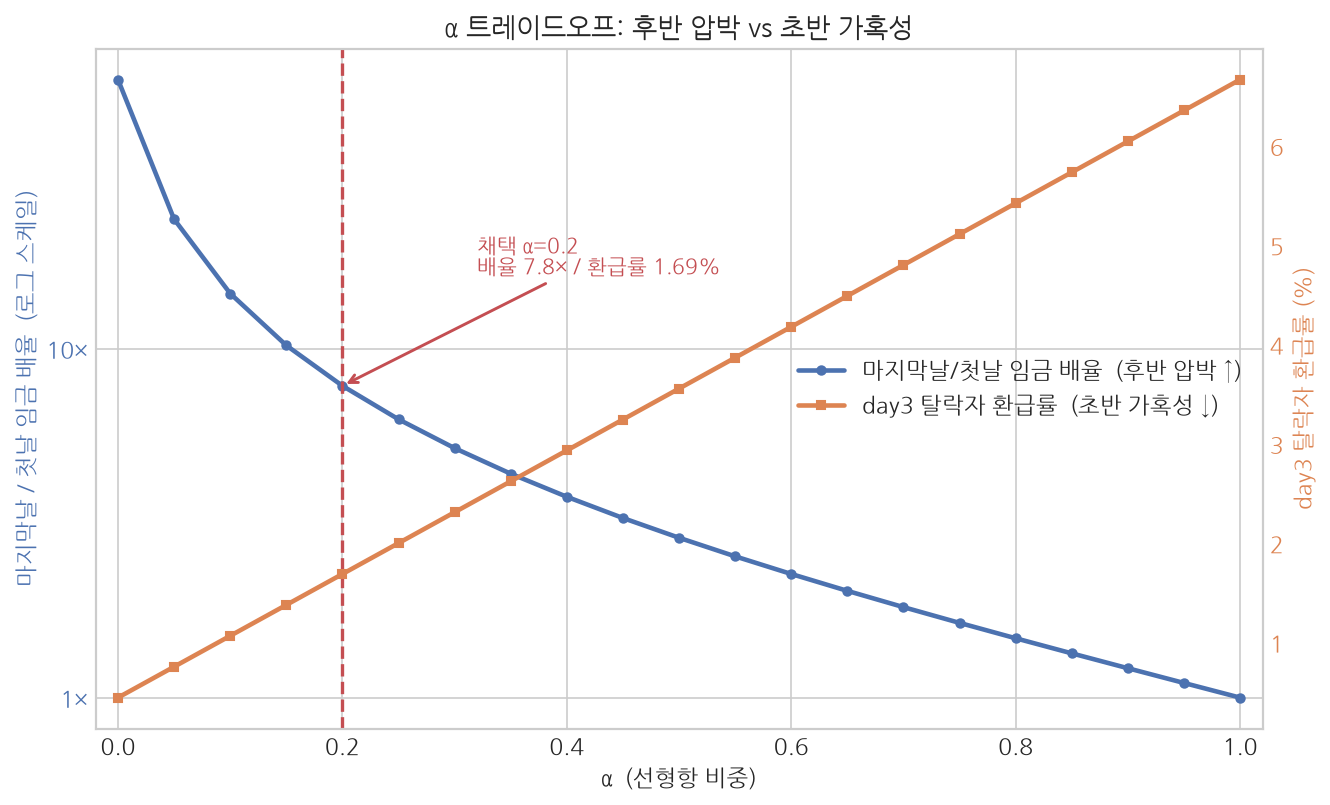
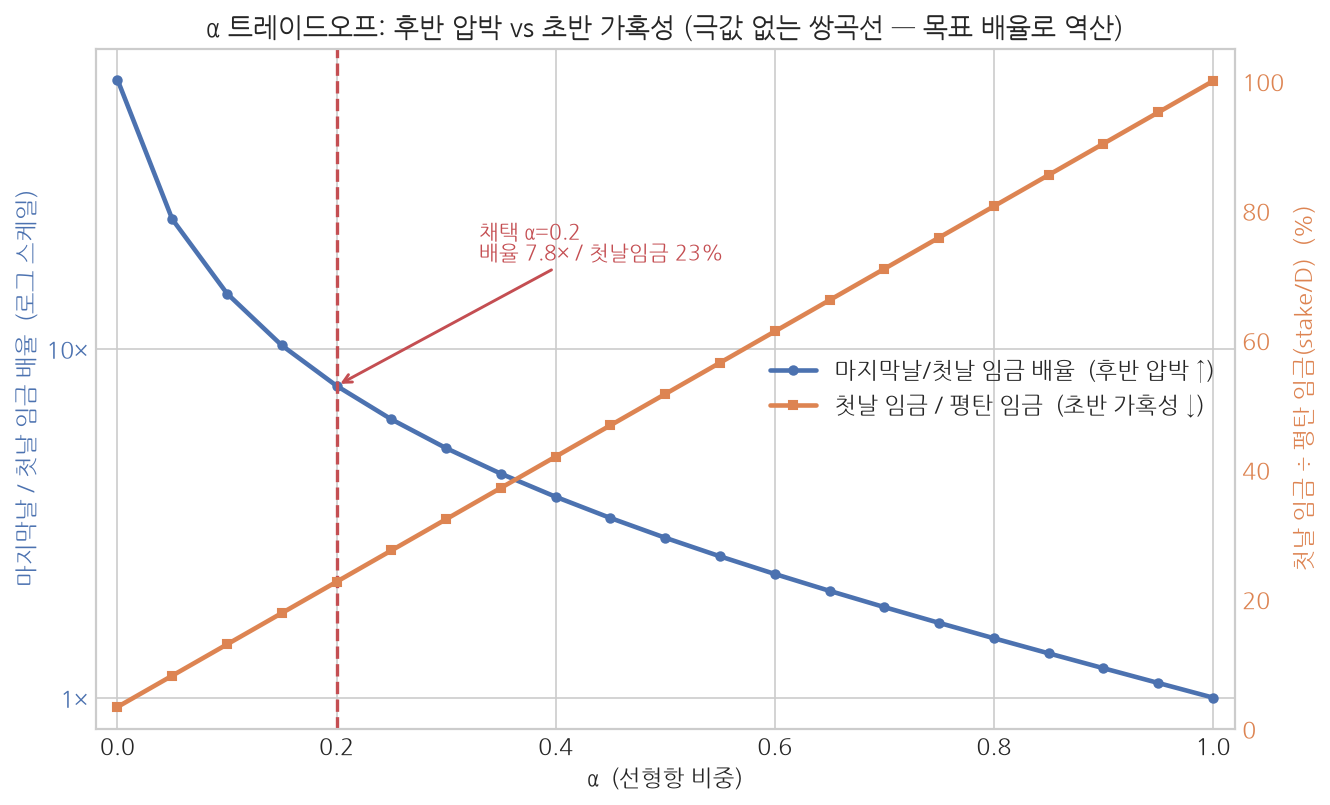
analysis: α 스윕 보강 — 배율 닫힌형태·역산·교차점·D 의존성
- 배율 닫힌형태 w(D)/w(1) = (2D-1-(D-1)α)/(1+(D-1)α) 유도, 극값 없음 확인
- alpha_for_ratio() 추가: 목표 배율 → α 역산 (8배 → α=0.195 ≈ 채택 0.2)
- 지표 교체: day3 환급률(변별력 없음) → 첫날/평탄임금 비율 (α에 선형)
- 교차점 d=(D+1)/2 마커·주석 추가, Σw=stake 총합 검산 출력
- D 의존성 표 추가 (D=5 4.6배 ~ D=50 8.3배)
- 닫힌형태 vs staying_wage_curve() 실측 대조 검산을 assert로 고정

diff --git a/docs/정산_프로토타입/03_시뮬레이터/alpha_sweep.py b/docs/정산_프로토타입/03_시뮬레이터/alpha_sweep.py
@@ -4,17 +4,28 @@
 ==================================
 r(x) = α·x + (1−α)·x²,  x = k/D,  k = 완주일수 = 탈락일 − 1
 
-α는 두 요구가 충돌하는 지점에 있다.
-  - α↑ : 커브가 선형에 가까워짐 → 생존 임금이 평탄해져 차등/압박 효과 소멸
-  - α↓ : 커브가 볼록해짐 → 초반이 가혹해져 day2~3 탈락도 사실상 전액 몰수
-          → "어차피 다 잃었다" 심리로 커밋먼트 장치가 역효과
+생존 임금 w(d) = stake·[R(d/D) − R((d−1)/D)] 를 전개하면
+    w(d) = stake·[ α/D + (1−α)(2d−1)/D² ]
+이고, 여기서 세 가지 구조적 사실이 따라온다.
 
-이 스크립트는 그 트레이드오프를 4개 지표로 계량하고, α=0.2가
-합리적 구간에 있음을 보인다.
+  (1) 배율의 닫힌 형태
+        w(D)/w(1) = (2D−1−(D−1)α) / (1+(D−1)α)
+      α에 대한 쌍곡선 감소 — 극값이 없다. 즉 "수학적 최적 α"는 존재하지 않는다.
+      따라서 α는 최적화로 구하는 값이 아니라, 목표 배율을 정하고 역산하는 값이다.
+        α = (2D−1−T) / [(D−1)(T+1)],   T ∈ [1, 2D−1]
+
+  (2) 모든 α 곡선의 교차점
+        ∂w/∂α = 1/D − (2d−1)/D² = 0  →  d = (D+1)/2,  그 값은 stake/D (α 무관)
+      또 Σ_{d=1..D} w(d) = stake (망원합) 이므로 총 환급액은 α와 무관하다.
+      α는 파이의 크기가 아니라 기울기만 바꾼다 — 교차점을 축으로 한 회전이다.
+
+  (3) 기간 의존성
+      배율은 D가 클수록 커진다. 같은 α라도 D=5(데모)와 D=30(실서비스)의
+      체감 압박이 다르다.
 
 커브 로직은 godsaeng_sim 에서 import 해 재사용한다 (재구현 금지 —
 절단 위치가 달라지면 mirror.py / challenge.move 와 어긋난다).
-폰트·스타일·색상 블록도 import 시점에 함께 적용된다.
+아래 닫힌 형태는 전부 staying_wage_curve() 결과와 대조 검산한다.
 
 사용: python3 alpha_sweep.py
 """
@@ -25,94 +36,175 @@ import pandas as pd
 import matplotlib.pyplot as plt
 import matplotlib.ticker as mticker
 
-# 커브 3종 + 폰트/스타일/색상 재사용
+# 커브 + 폰트/스타일/색상 재사용
 from godsaeng_sim import (
-    curve, retention, staying_wage_curve,
+    staying_wage_curve,
     C_BLUE, C_ORANGE, C_GREEN, C_RED, C_PURPLE, C_GRAY,
 )
 
 # ---------------------------------------------------------------- 설정
 D = 30
 ALPHA_GRID = np.round(np.arange(0.0, 1.0 + 1e-9, 0.05), 2)   # 21개 점
-ALPHA_PICK = 0.2                    # 현재 채택값 (검증 대상)
+ALPHA_PICK = 0.2                     # 현재 채택값 (검증 대상)
 ALPHAS_OVERLAY = (0.0, 0.2, 0.5, 1.0)
-STAKE_WON = 100_000                 # 생존 임금 그래프용 (02_staying_wage.png와 톤 통일)
-EARLY_DAY = 3                       # 초반 가혹성 판정 기준일 (k = EARLY_DAY - 1)
+TARGET_RATIOS = (5.0, 8.0, 10.0)     # 목표 배율 → α 역산
+D_GRID = (5, 10, 30, 50)             # D=5 데모 방, D=30 실서비스 상정
+STAKE_WON = 100_000                  # 02_staying_wage.png 와 톤 통일
 
-# 04_그래프/ 는 03_시뮬레이터/ 의 형제 디렉터리. cwd와 무관하게 잡는다.
-OUTDIR = os.path.join(os.path.dirname(os.path.abspath(__file__)), "..", "04_그래프")
-OUTDIR = os.path.normpath(OUTDIR)
+OUTDIR = os.path.normpath(
+    os.path.join(os.path.dirname(os.path.abspath(__file__)), "..", "04_그래프"))
 os.makedirs(OUTDIR, exist_ok=True)
 
+RATIO_COL = "마지막/첫날 배율"
+CV_COL = "변동계수"
+FLAT_COL = "첫날/평탄임금(%)"
 
-# ---------------------------------------------------------------- 지표
+
+# ---------------------------------------------------------------- 닫힌 형태
+def ratio_closed(alpha: float, D: int = D) -> float:
+    """w(D)/w(1) = (2D−1−(D−1)α) / (1+(D−1)α)."""
+    return (2 * D - 1 - (D - 1) * alpha) / (1 + (D - 1) * alpha)
+
+
+def alpha_for_ratio(target_ratio: float, D: int = D) -> float:
+    """목표 배율 T를 주면 그걸 만드는 α를 역산. α = (2D−1−T)/[(D−1)(T+1)].
+
+    T의 유효구간은 [1, 2D−1] — α=1(완전 평탄)일 때 1배, α=0(순수 이차)일 때
+    2D−1배가 양 끝이다. 벗어나면 실현 불가능한 목표라 ValueError.
+    """
+    lo, hi = 1.0, 2.0 * D - 1.0
+    if not (lo - 1e-12 <= target_ratio <= hi + 1e-12):
+        raise ValueError(f"D={D}에서 배율 {target_ratio}는 실현 불가 "
+                         f"(가능 범위 {lo:.1f}~{hi:.1f}배)")
+    return (2 * D - 1 - target_ratio) / ((D - 1) * (target_ratio + 1))
+
+
+def flat_wage_ratio(alpha: float, D: int = D) -> float:
+    """첫날 임금 / 평탄 임금(=stake/D) = [1+α(D−1)]/D.
+    α에 정확히 선형이라 '초반이 얼마나 덜 가혹한가'를 변별력 있게 보여준다.
+    (구 지표였던 day3 환급률은 x=2/D가 원래 작아 α=1.0에서도 6.7%라 변별력이 없었다.)
+    """
+    return (1.0 + alpha * (D - 1)) / D
+
+
+# ---------------------------------------------------------------- 지표 표
 def metrics(alpha: float) -> dict:
-    """α 하나에 대한 4개 지표. 생존 임금 수열은 staying_wage_curve()로만 얻는다."""
-    w = staying_wage_curve(D, alpha, stake=1.0)      # w[i] = day (i+1)의 하루 가치
-
-    # 단조증가: 절벽(감소 구간)이 없는지. α=1.0은 완전 평탄이라 diff==0 → 비감소로 판정.
-    mono = bool(np.all(np.diff(w) >= -1e-15))
-
+    """지표는 전부 staying_wage_curve() 실측 수열에서 뽑는다 (닫힌 형태는 검산용)."""
+    w = staying_wage_curve(D, alpha, stake=1.0)
+    mono = bool(np.all(np.diff(w) >= -1e-15))   # α=1.0은 완전 평탄(diff=0) → 비감소로 Y
     return {
         "α": alpha,
         "단조증가": "Y" if mono else "N",
-        "마지막/첫날 배율": w[-1] / w[0],
-        "변동계수": w.std() / w.mean(),
-        f"day{EARLY_DAY} 환급률(%)": retention(EARLY_DAY, D, alpha) * 100,
+        RATIO_COL: w[-1] / w[0],
+        CV_COL: w.std() / w.mean(),
+        FLAT_COL: w[0] / (1.0 / D) * 100,       # stake=1.0 이므로 평탄임금 = 1/D
     }
 
 
 df = pd.DataFrame([metrics(a) for a in ALPHA_GRID])
 
-RATIO_COL = "마지막/첫날 배율"
-CV_COL = "변동계수"
-EARLY_COL = f"day{EARLY_DAY} 환급률(%)"
-
 
 def at(alpha: float, col: str) -> float:
-    """표에서 특정 α의 지표값을 꺼낸다."""
     return float(df.loc[np.isclose(df["α"], alpha), col].iloc[0])
 
 
-# ---------------------------------------------------------------- 표 출력
 pd.set_option("display.float_format", lambda v: f"{v:,.3f}")
 print("=" * 72)
-print(f"α 스윕 — D={D}, {len(ALPHA_GRID)}개 점 (0.00 ~ 1.00, 0.05 간격)")
+print(f"[1] α 스윕 — D={D}, {len(ALPHA_GRID)}개 점 (0.00 ~ 1.00, 0.05 간격)")
 print("=" * 72)
 print(df.to_string(index=False))
 
 
+# ---------------------------------------------------------------- 검산
+print("\n" + "=" * 72)
+print("[2] 검산 — 닫힌 형태 vs staying_wage_curve() 실측")
+print("=" * 72)
+
+err_ratio = max(abs(ratio_closed(a) - at(a, RATIO_COL)) for a in ALPHA_GRID)
+err_flat = max(abs(flat_wage_ratio(a) * 100 - at(a, FLAT_COL)) for a in ALPHA_GRID)
+# 역산 왕복: α → 배율 → α 가 제자리로 돌아오는지
+err_round = max(abs(alpha_for_ratio(at(a, RATIO_COL)) - a) for a in ALPHA_GRID)
+
+print(f"  배율 닫힌형태 최대 오차      : {err_ratio:.3e}")
+print(f"  첫날/평탄임금 닫힌형태 오차  : {err_flat:.3e}")
+print(f"  역산 왕복(α→T→α) 최대 오차   : {err_round:.3e}")
+
+# 총합 검산: Σw(d) = stake 이므로 총 환급액은 α와 무관 (교차점 기준 회전만 일어남)
+sums = {a: staying_wage_curve(D, a, stake=1.0).sum() for a in ALPHA_GRID}
+max_sum_err = max(abs(s - 1.0) for s in sums.values())
+print(f"  총합 검산: 모든 α에서 Σw = stake "
+      f"(최대 오차 {max_sum_err:.3e}) → 총 환급액은 α와 무관, α는 기울기만 바꾼다")
+
+assert err_ratio < 1e-12 and err_flat < 1e-12 and err_round < 1e-9 and max_sum_err < 1e-12
+
+
+# ---------------------------------------------------------------- 목표 배율 역산
+print("\n" + "=" * 72)
+print(f"[3] 목표 배율 → α 역산 (D={D}, 가능 범위 1.0 ~ {2 * D - 1:.1f}배)")
+print("=" * 72)
+rows = []
+for T in TARGET_RATIOS:
+    a = alpha_for_ratio(T, D)
+    w = staying_wage_curve(D, a, stake=1.0)      # 역산한 α를 실제 커브에 넣어 재확인
+    rows.append({"목표 배율": T, "역산 α": a, "실측 배율": w[-1] / w[0],
+                 FLAT_COL: w[0] / (1.0 / D) * 100})
+inv = pd.DataFrame(rows)
+print(inv.to_string(index=False))
+a8 = alpha_for_ratio(8.0, D)
+print(f"\n  → 채택 α={ALPHA_PICK}는 목표 배율 8배(역산 α={a8:.3f})를 "
+      f"소수 첫째자리로 반올림한 값에 해당한다.")
+
+
+# ---------------------------------------------------------------- D 의존성
+print("\n" + "=" * 72)
+print(f"[4] 기간 의존성 — α={ALPHA_PICK} 고정, D 변화")
+print("=" * 72)
+drows = []
+for d_ in D_GRID:
+    w = staying_wage_curve(d_, ALPHA_PICK, stake=1.0)
+    drows.append({"D": d_, "마지막/첫날 배율": w[-1] / w[0],
+                  "닫힌형태": ratio_closed(ALPHA_PICK, d_),
+                  "교차일 (D+1)/2": (d_ + 1) / 2,
+                  "비고": "데모 방" if d_ == 5 else "실서비스 상정" if d_ == 30 else ""})
+dd = pd.DataFrame(drows)
+print(dd.to_string(index=False))
+r_d5, r_d30 = ratio_closed(ALPHA_PICK, 5), ratio_closed(ALPHA_PICK, 30)
+print(f"\n  → 같은 α라도 기간이 길수록 배율이 커진다 "
+      f"(D=5 {r_d5:.1f}배 → D=30 {r_d30:.1f}배). "
+      f"데모 방(D=5)의 체감 압박은 실서비스보다 약하다.")
+
+
 # ---------------------------------------------------------------- 그래프 1
 def fig_tradeoff():
-    """x=α, 좌축=후반 압박 강도(배율), 우축=초반 가혹성(day3 환급률).
-    두 곡선이 반대로 움직이는 게 이 그림의 전부다."""
+    """x=α, 좌축=후반 압박(배율), 우축=초반 완화(첫날/평탄임금)."""
     fig, ax1 = plt.subplots(figsize=(9, 5.5))
 
     l1, = ax1.plot(df["α"], df[RATIO_COL], "-o", color=C_BLUE, lw=2.2, ms=4,
                    label="마지막날/첫날 임금 배율  (후반 압박 ↑)")
-    ax1.set_yscale("log")            # 1배 ~ 59배라 로그가 아니면 오른쪽 끝이 뭉갠다
+    ax1.set_yscale("log")           # 1배 ~ 59배라 로그가 아니면 오른쪽 끝이 뭉갠다
     ax1.set_xlabel("α  (선형항 비중)")
     ax1.set_ylabel("마지막날 / 첫날 임금 배율  (로그 스케일)", color=C_BLUE)
     ax1.tick_params(axis="y", labelcolor=C_BLUE)
     ax1.yaxis.set_major_formatter(mticker.FuncFormatter(lambda v, p: f"{v:g}×"))
 
     ax2 = ax1.twinx()
-    l2, = ax2.plot(df["α"], df[EARLY_COL], "-s", color=C_ORANGE, lw=2.2, ms=4,
-                   label=f"day{EARLY_DAY} 탈락자 환급률  (초반 가혹성 ↓)")
-    ax2.set_ylabel(f"day{EARLY_DAY} 탈락자 환급률 (%)", color=C_ORANGE)
+    l2, = ax2.plot(df["α"], df[FLAT_COL], "-s", color=C_ORANGE, lw=2.2, ms=4,
+                   label="첫날 임금 / 평탄 임금  (초반 가혹성 ↓)")
+    ax2.set_ylabel("첫날 임금 ÷ 평탄 임금(stake/D)  (%)", color=C_ORANGE)
     ax2.tick_params(axis="y", labelcolor=C_ORANGE)
-    ax2.grid(False)                  # twin축 그리드 겹침 방지
+    ax2.set_ylim(0, 105)
+    ax2.grid(False)
 
     ax1.axvline(ALPHA_PICK, color=C_RED, ls="--", lw=1.6)
     ax1.annotate(
         f"채택 α={ALPHA_PICK}\n배율 {at(ALPHA_PICK, RATIO_COL):.1f}× / "
-        f"환급률 {at(ALPHA_PICK, EARLY_COL):.2f}%",
+        f"첫날임금 {at(ALPHA_PICK, FLAT_COL):.0f}%",
         xy=(ALPHA_PICK, at(ALPHA_PICK, RATIO_COL)),
-        xytext=(ALPHA_PICK + 0.12, at(ALPHA_PICK, RATIO_COL) * 2.1),
+        xytext=(ALPHA_PICK + 0.13, at(ALPHA_PICK, RATIO_COL) * 2.3),
         color=C_RED, fontsize=10, fontweight="bold",
         arrowprops=dict(arrowstyle="->", color=C_RED, lw=1.4))
 
-    ax1.set_title("α 트레이드오프: 후반 압박 vs 초반 가혹성")
+    ax1.set_title("α 트레이드오프: 후반 압박 vs 초반 가혹성 (극값 없는 쌍곡선 — 목표 배율로 역산)")
     ax1.legend(handles=[l1, l2], loc="center right", framealpha=0.92)
     ax1.set_xlim(-0.02, 1.02)
 
@@ -123,7 +215,7 @@ def fig_tradeoff():
 
 # ---------------------------------------------------------------- 그래프 2
 def fig_wage_overlay():
-    """α별 생존 임금 곡선 겹쳐보기. 채택값 α=0.2만 굵게."""
+    """α별 생존 임금 곡선 + 교차점. 총합이 같으므로 교차점 기준 회전만 일어난다."""
     fig, ax = plt.subplots(figsize=(9, 5.5))
     d = np.arange(1, D + 1)
     colors = [C_PURPLE, C_BLUE, C_GREEN, C_GRAY]
@@ -137,12 +229,23 @@ def fig_wage_overlay():
         ax.plot(d, w, color=c, lw=3.2 if pick else 2.0,
                 zorder=3 if pick else 2, label=f"α={a:.1f}{note}")
 
-    ax.set_title("α별 생존 임금 w(d): α가 커질수록 평탄 → 후반 압박 소멸")
+    # 교차점: d=(D+1)/2 에서 w = stake/D (α 무관). D가 짝수면 정수 day가 아니다.
+    d_cross, w_cross = (D + 1) / 2, STAKE_WON / D
+    ax.plot([d_cross], [w_cross], "o", color=C_RED, ms=10, zorder=5,
+            markeredgecolor="white", markeredgewidth=1.5)
+    ax.annotate(
+        f"교차점 d=(D+1)/2={d_cross:g}\nw=stake/D={w_cross:,.0f}원 (α 무관)\n"
+        f"Σw=stake로 총합 동일 → α는 이 점을 축으로 회전만 시킨다",
+        xy=(d_cross, w_cross), xytext=(d_cross + 1.5, w_cross - 2700),
+        color=C_RED, fontsize=9.5, fontweight="bold",
+        arrowprops=dict(arrowstyle="->", color=C_RED, lw=1.4))
+
+    ax.set_title("α별 생존 임금 w(d): 총합은 같고 교차점 기준으로 기울기만 바뀐다")
     ax.set_xlabel("day d")
     ax.set_ylabel(f"하루 더 버티는 가치 (원, 예치 {STAKE_WON:,})")
     ax.yaxis.set_major_formatter(mticker.FuncFormatter(lambda v, p: f"{v:,.0f}"))
     ax.set_xlim(1, D)
-    ax.legend()
+    ax.legend(loc="upper left")
 
     path = os.path.join(OUTDIR, "04_staying_wage_by_alpha.png")
     plt.tight_layout(); plt.savefig(path, bbox_inches="tight"); plt.close()
@@ -156,27 +259,29 @@ print(f"      {p2}")
 
 
 # ---------------------------------------------------------------- 근거 요약문
-r0, r02, r05, r1 = (at(a, RATIO_COL) for a in (0.0, 0.2, 0.5, 1.0))
-e0, e02, e1 = (at(a, EARLY_COL) for a in (0.0, 0.2, 1.0))
-cv0, cv02, cv1 = (at(a, CV_COL) for a in (0.0, 0.2, 1.0))
-mono_all = (df["단조증가"] == "Y").all()
+r02, f02 = at(ALPHA_PICK, RATIO_COL), at(ALPHA_PICK, FLAT_COL)
+f0, f1 = at(0.0, FLAT_COL), at(1.0, FLAT_COL)
+a5, a10 = alpha_for_ratio(5.0, D), alpha_for_ratio(10.0, D)
 
 print("\n" + "=" * 72)
 print("α=0.2를 고른 근거 (발표 대본용)")
 print("=" * 72)
 print(
-    f"""α는 후반 압박과 초반 가혹성 사이의 트레이드오프 파라미터입니다. D={D} 기준으로 α를
-0부터 1까지 0.05 간격으로 훑어보면 두 지표가 정확히 반대로 움직입니다. 커브를 순수 선형으로
-두는 α=1.0에서는 마지막 날 생존 임금이 첫날과 똑같아 배율이 {r1:.2f}배, 변동계수도 {cv1:.3f}로
-완전히 평탄해집니다. 즉 29일차나 1일차나 하루 더 버티는 값어치가 같아서, 시간가중 차등이라는
-이 프로토콜의 핵심 차별점이 사라집니다. 반대로 순수 이차인 α=0.0에서는 배율이 {r0:.1f}배까지
-치솟아 압박은 최대가 되지만, day{EARLY_DAY} 탈락자의 환급률이 {e0:.2f}%로 사실상 전액 몰수가
-됩니다. 초반 이탈자에게 '어차피 다 잃었다'는 심리를 주면 커밋먼트 장치로서 역효과입니다.
-저희가 채택한 α={ALPHA_PICK}는 이 두 실패 모드를 모두 피합니다. 마지막날 대 첫날 임금 배율이
-{r02:.1f}배로 후반 압박을 뚜렷하게 유지하면서도, day{EARLY_DAY} 탈락자 환급률은 {e02:.2f}%로
-α=0.0 대비 약 {e02 / e0:.1f}배 완화됩니다. 중간값인 α=0.5로 가면 배율이 {r05:.1f}배까지
-떨어져 압박이 절반 이하로 약해지므로, 차등 강도를 살리려면 α는 0.5보다 확실히 작아야 합니다.
-정리하면 α={ALPHA_PICK}는 '초반을 전액 몰수로 만들지 않는 최소 선형항'과 '후반 압박을 살리는
-최대 볼록성'이 만나는 구간의 값이며, 전 구간에서 생존 임금 단조증가가 유지되어
-{'중도 이탈을 유인하는 임금 절벽도 발생하지 않습니다' if mono_all else '일부 구간에서 임금 절벽이 발생합니다'}."""
+    f"""α는 최적화로 구하는 값이 아닙니다. 생존 임금을 전개하면 마지막날 대 첫날 임금 배율이
+(2D−1−(D−1)α)/(1+(D−1)α)라는 닫힌 형태로 떨어지는데, 이건 α에 대한 쌍곡선 감소라
+극값이 없습니다. 즉 '수학적으로 최적인 α'는 존재하지 않고, 설계자가 목표 배율을 먼저 정한 뒤
+역산해야 하는 값입니다. 저희는 그 역산식 α=(2D−1−T)/[(D−1)(T+1)]을 세우고 D={D} 기준으로
+목표 배율을 넣어봤습니다. 5배를 목표로 하면 α={a5:.3f}, 8배면 α={a8:.3f}, 10배면 α={a10:.3f}가
+나옵니다. 저희가 채택한 α={ALPHA_PICK}는 이 중 8배 목표를 소수 첫째자리로 반올림한 값이고,
+실제 배율은 {r02:.1f}배입니다. 8배를 고른 이유는 양 끝이 모두 실패 모드이기 때문입니다.
+α=1.0이면 배율이 1.00배로 완전히 평탄해져 29일차나 1일차나 하루 더 버티는 값어치가 같아지고,
+시간가중 차등이라는 핵심 차별점이 사라집니다. 반대로 α=0.0이면 첫날 임금이 평탄 임금의
+{f0:.1f}%까지 떨어져 초반이 사실상 전액 몰수가 되고, 초반 이탈자에게 '어차피 다 잃었다'는
+심리를 줘서 커밋먼트 장치로 역효과가 납니다. α={ALPHA_PICK}에서는 첫날 임금이 평탄 임금의
+{f02:.0f}% 수준으로 회복되면서도 배율 {r02:.1f}배의 후반 압박이 유지됩니다. 한 가지 덧붙이면
+α는 나눠주는 총액을 바꾸지 않습니다. Σw(d)=stake로 총 환급액은 α와 무관하고, 모든 α 곡선은
+d=(D+1)/2={((D + 1) / 2):g}일에서 교차합니다. α는 파이의 크기가 아니라 기울기만,
+그 교차점을 축으로 회전시키는 파라미터입니다. 마지막으로 이 배율은 기간에 비례해 커지므로
+데모 방(D=5)에서는 같은 α={ALPHA_PICK}라도 배율이 {r_d5:.1f}배에 그칩니다. 실서비스
+D={D}의 {r_d30:.1f}배와는 체감이 다르다는 점을 감안해야 합니다."""
 )
